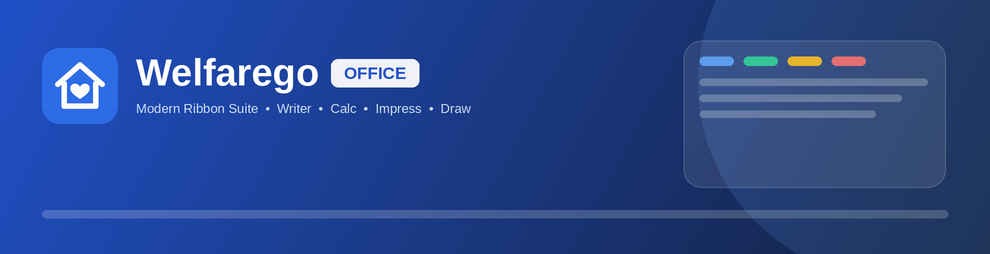
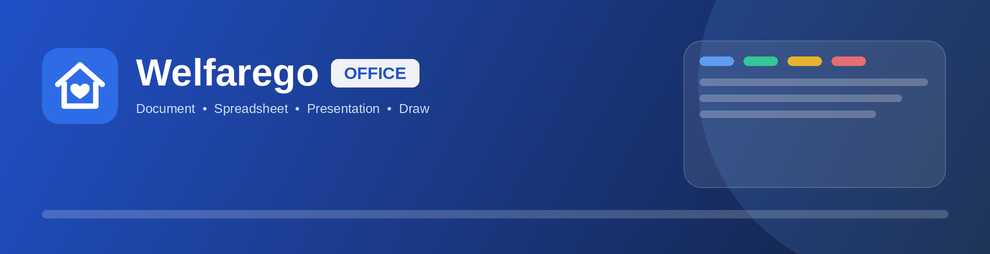
fix(office): fix UAC postinstall lock, hide inner MSI from Control Panel, and rename apps to Document/Spreadsheet/Presentation/Draw (#23)

Changed region(s): [[0.1212, 0.4134, 0.4848, 0.4685]]

diff --git a/templates/daycare/office.html b/templates/daycare/office.html
@@ -54,20 +54,20 @@
         </div>
         <div class="grid-2" style="gap:8px;">
           <div class="office-app-tile">
-            <img src="/office/assets/writer_app.png" alt="문서 작성기 Writer">
-            <div><strong>문서 작성 (Writer)</strong><span>DOCX·ODT·PDF · 평가서식</span></div>
+            <img src="/office/assets/writer_app.png" alt="Welfarego Office Document">
+            <div><strong>Welfarego Office Document</strong><span>워드·문서 (DOCX·ODT·PDF · 평가서식)</span></div>
           </div>
           <div class="office-app-tile">
-            <img src="/office/assets/calc_app.png" alt="스프레드시트 Calc">
-            <div><strong>엑셀·회계 (Calc)</strong><span>XLSX·CSV · 급여/식단/인건비</span></div>
+            <img src="/office/assets/calc_app.png" alt="Welfarego Office Spreadsheet">
+            <div><strong>Welfarego Office Spreadsheet</strong><span>엑셀·표 (XLSX·CSV · 급여/식단/인건비)</span></div>
           </div>
           <div class="office-app-tile">
-            <img src="/office/assets/impress_app.png" alt="프레젠테이션 Impress">
-            <div><strong>발표자료 (Impress)</strong><span>PPTX · 직원교육·운영위 자료</span></div>
+            <img src="/office/assets/impress_app.png" alt="Welfarego Office Presentation">
+            <div><strong>Welfarego Office Presentation</strong><span>PPT·발표자료 (PPTX · 직원교육·운영위)</span></div>
           </div>
           <div class="office-app-tile">
-            <img src="/office/assets/draw_app.png" alt="드로잉·PDF Draw">
-            <div><strong>PDF·안내문 (Draw)</strong><span>포스터·피난안내도·PDF 편집</span></div>
+            <img src="/office/assets/draw_app.png" alt="Welfarego Office Draw">
+            <div><strong>Welfarego Office Draw</strong><span>PDF·안내문 (포스터·피난안내도·PDF 편집)</span></div>
           </div>
         </div>
         <div style="margin-top:10px;padding-top:9px;border-top:1px solid rgba(255,255,255,0.18);font-size:0.74rem;color:#dbeafe;line-height:1.6;">

diff --git a/office/preview/ribbon-design-preview.html b/office/preview/ribbon-design-preview.html
@@ -75,7 +75,7 @@
             <path d="M10.5 16v11.5h15V16" fill="none" stroke="#fff" stroke-width="2.8" stroke-linejoin="round"/>
             <path d="M18 24.2c-3.4-2.2-4.6-3.6-4.6-5.1 0-1.3 1-2.2 2.2-2.2.9 0 1.9.5 2.4 1.5.5-1 1.5-1.5 2.4-1.5 1.2 0 2.2.9 2.2 2.2 0 1.5-1.2 2.9-4.6 5.1Z" fill="#fff"/>
           </svg>
-          <span id="title-txt">2026_운영규정_및_사업계획서.docx — Welfarego OFFICE Writer</span>
+          <span id="title-txt">2026_운영규정_및_사업계획서.docx — Welfarego Office Document</span>
         </div>
         <span style="opacity:.6;font-family:monospace;">─ &nbsp; □ &nbsp; ✕</span>
       </div>
@@ -86,7 +86,7 @@
       <div class="ribbon" id="ribbon"></div>
       <div class="canvas" id="canvas">
         <div class="paper" id="paper">
-          <div style="font-size:11px;font-weight:700;color:#2151C8;margin-bottom:8px;">WELFAREGO OFFICE WRITER · 26.2</div>
+          <div style="font-size:11px;font-weight:700;color:#2151C8;margin-bottom:8px;">WELFAREGO OFFICE DOCUMENT · 26.2</div>
           <h2 id="doc-h" contenteditable="true" style="margin-bottom:12px;outline:none;">2026년 주·야간보호시설 연간 운영계획서</h2>
           <p id="doc-p" style="font-size:14px;line-height:1.75;opacity:.9;">
             설치 즉시 모던 탭형 리본(Tabbed UI)과 Sukapura 벡터 아이콘이 자동 적용되며, 상단 <strong>[홈]</strong> 탭과 <strong>[★ 실무포털·서식]</strong> 탭에서 표준서식 20종·기준근무시간·2026 표준수가·평가 자가점검표를 클릭 한 번으로 열 수 있습니다.

diff --git a/tests/test_daycare.py b/tests/test_daycare.py
@@ -280,7 +280,9 @@ class DaycareAndOfficeTests(unittest.TestCase):
         ET.fromstring(xcd_text)
         self.assertIn("<value>notebookbar.ui</value>", xcd_text)
         self.assertIn("<value>sukapura_svg</value>", xcd_text)
-        self.assertIn("<value>Welfarego OFFICE</value>", xcd_text)
+        self.assertIn("<value>Welfarego Office</value>", xcd_text)
+        self.assertIn("<value>Presentation</value>", xcd_text)
+        self.assertIn("<value>Spreadsheet</value>", xcd_text)
 
         expected_go = {
             "forms": "/forms",

diff --git a/office/scripts/generate_branding.py b/office/scripts/generate_branding.py
@@ -357,7 +357,7 @@ def generate_splash(width: int, height: int, is_highres: bool = False) -> Image.
         sub_y = title_y + int((50 if is_highres else 36) * scale)
         d.text(
             (text_x, sub_y),
-            "Modern Ribbon Suite  •  Writer  •  Calc  •  Impress  •  Draw",
+            "Document  •  Spreadsheet  •  Presentation  •  Draw",
             font=sub_font,
             fill=(219, 234, 254, 235),
         )
